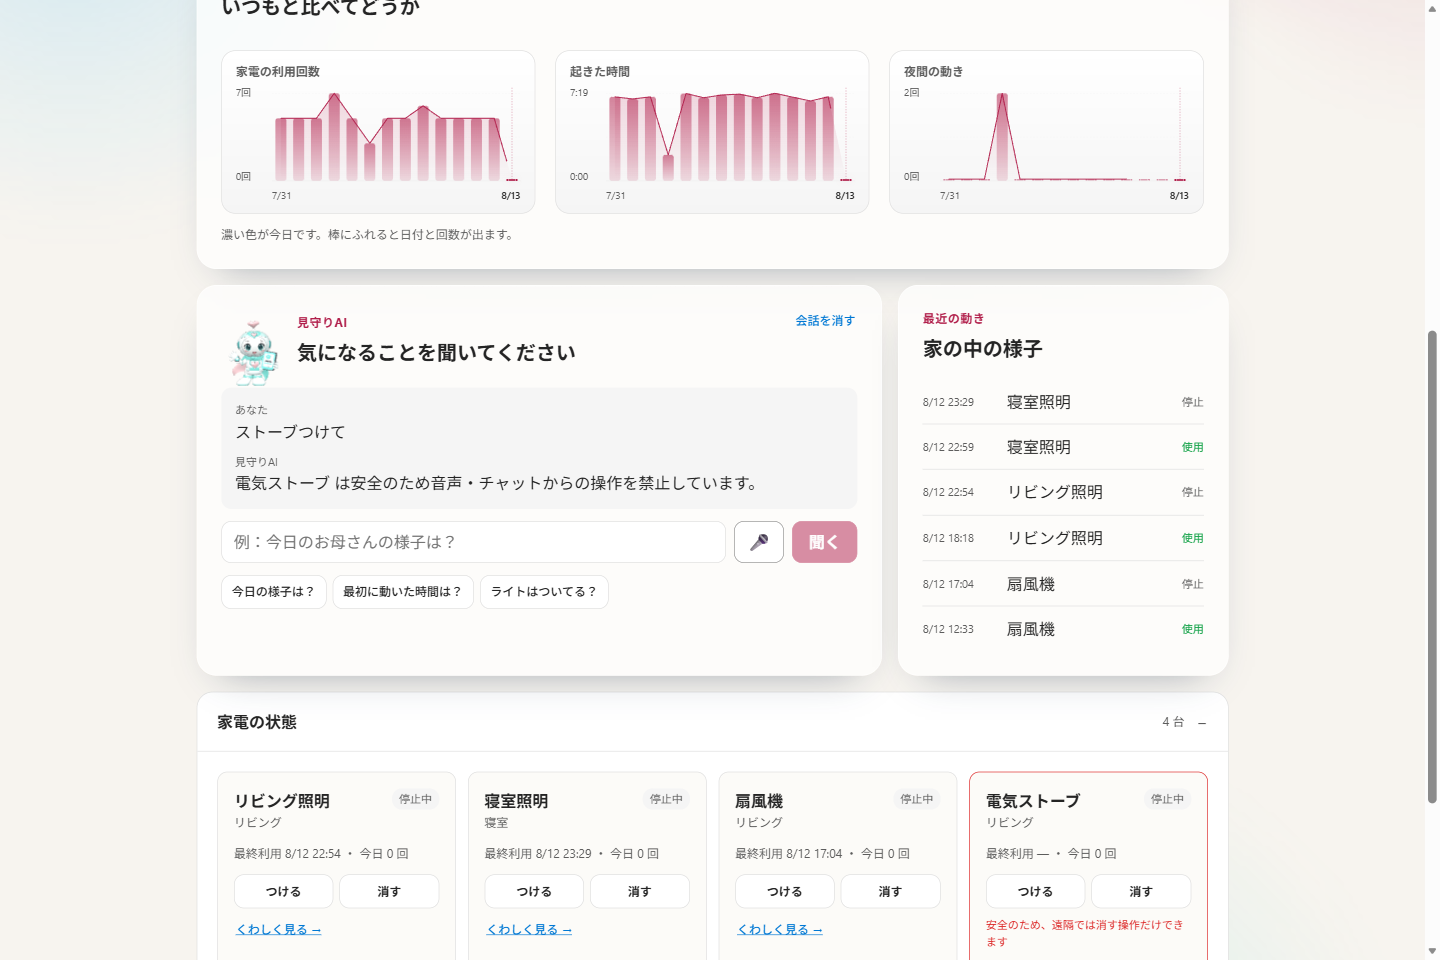
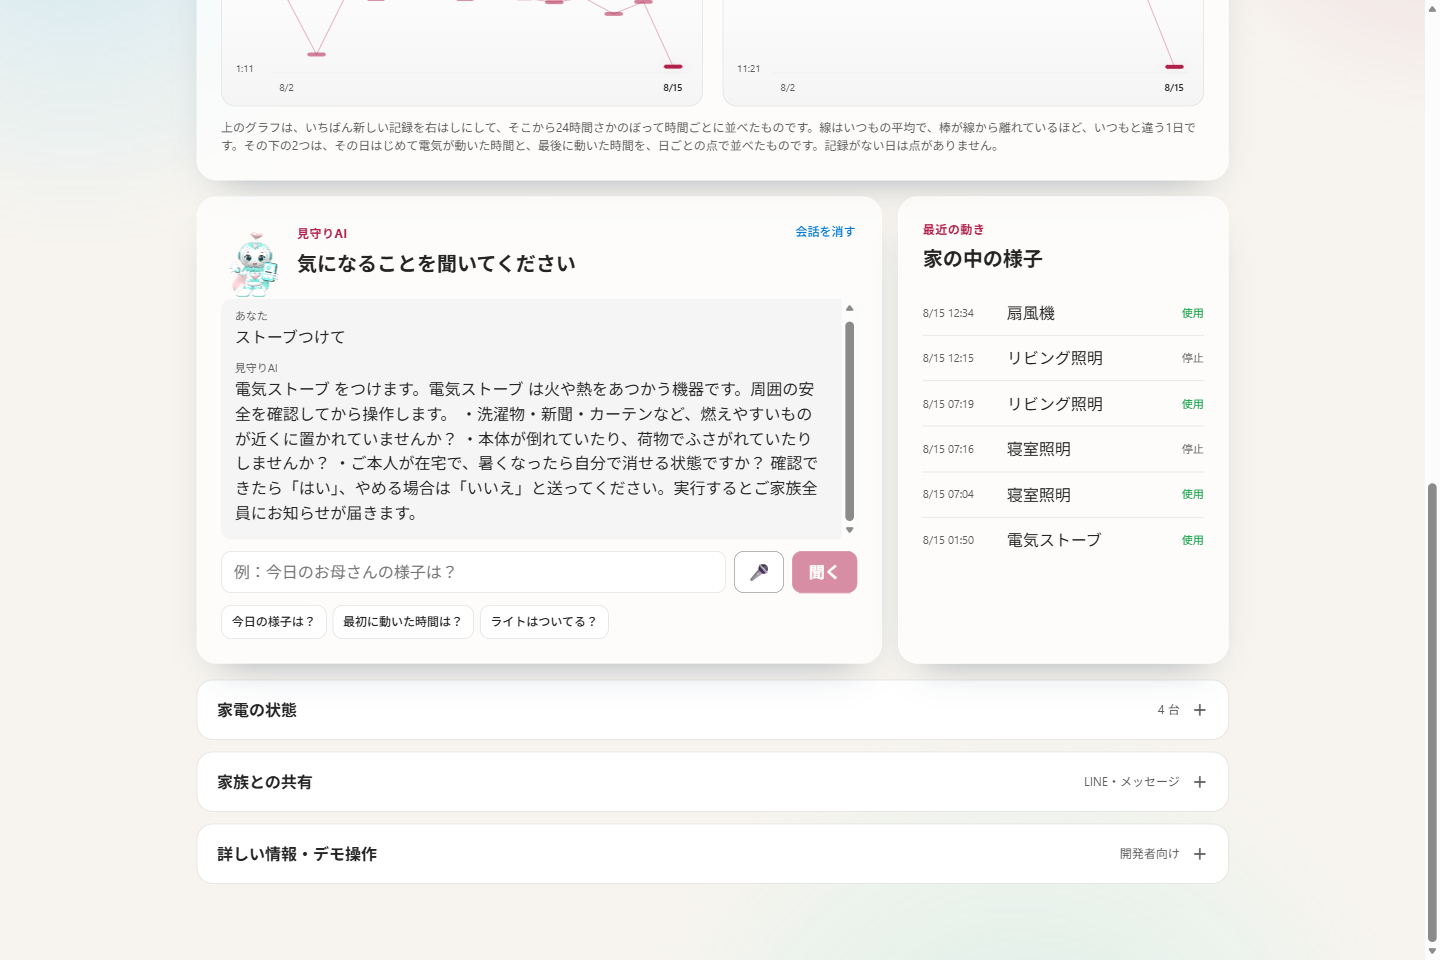
docs(article): 画面の変更に合わせてスクリーンショットを撮り直す
ストーブのガード画面の写真が、記事の本文と食い違っていた。写真には
「安全のため音声・チャットからの操作を禁止しています」と出ているのに、
本文はその隣で「ハザードを確認したうえで通す」と説明している。読んだ人
はどちらを信じればいいのか分からない。トップと推移の写真も、グラフを
点に変える前のもので、いまの画面には存在しない棒が写っていた。

4枚とも本番で撮り直し、あわせて OFF は周囲の安全確認を求められないと
いう記述と、機器カードの引用文も、実際に出ている文言に直した。

diff --git a/docs/qiita-body.md b/docs/qiita-body.md
@@ -147,11 +147,11 @@ flowchart LR
 **(4) ON と OFF を非対称にする。**
 `Guarded` でも `Restricted` でも、**OFF は常に通します**。「消す」は安全性を高める方向の操作だからです。ここを対称にすると「危ないから何も操作できない」になって使い物になりません。
 
-同じストーブに「消して」と言うと、確認なしで受理されます。
+同じストーブに「消して」と言うと、周囲の安全確認を求められることなく、通常どおり「よろしいですか？」の1回だけで受理されます。
 
 ![OFFは受理される](https://raw.githubusercontent.com/monoqlo78/mimamoritai-careroute-ai/main/docs/images/04-turn-off-allowed.png)
 
-機器カードにも「遠隔でONにするときは、周囲の安全を確認します」と出しています。**ガードの理由が使う人に見えないと、ただの故障に見える**ためです。
+機器カードにも「火や熱をあつかう機器です。ONにする前に周囲の確認をお願いします（ご家族全員に通知されます）」と出しています。**ガードの理由が使う人に見えないと、ただの故障に見える**ためです。
 
 **(5) 拒否も含めて全部記録する。**
 成功・失敗・拒否のすべてを `DeviceCommand` に残します。「AIが何をしようとしたか」が後から追えないと、そもそも安全性を主張できません。

diff --git a/docs/ARTICLE.md b/docs/ARTICLE.md
@@ -150,11 +150,11 @@ flowchart LR
 **(4) ON と OFF を非対称にする。**
 `Guarded` でも `Restricted` でも、**OFF は常に通します**。「消す」は安全性を高める方向の操作だからです。ここを対称にすると「危ないから何も操作できない」になって使い物になりません。
 
-同じストーブに「消して」と言うと、確認なしで受理されます。
+同じストーブに「消して」と言うと、周囲の安全確認を求められることなく、通常どおり「よろしいですか？」の1回だけで受理されます。
 
 ![OFFは受理される](./images/04-turn-off-allowed.png)
 
-機器カードにも「遠隔でONにするときは、周囲の安全を確認します」と出しています。**ガードの理由が使う人に見えないと、ただの故障に見える**ためです。
+機器カードにも「火や熱をあつかう機器です。ONにする前に周囲の確認をお願いします（ご家族全員に通知されます）」と出しています。**ガードの理由が使う人に見えないと、ただの故障に見える**ためです。
 
 **(5) 拒否も含めて全部記録する。**
 成功・失敗・拒否のすべてを `DeviceCommand` に残します。「AIが何をしようとしたか」が後から追えないと、そもそも安全性を主張できません。
